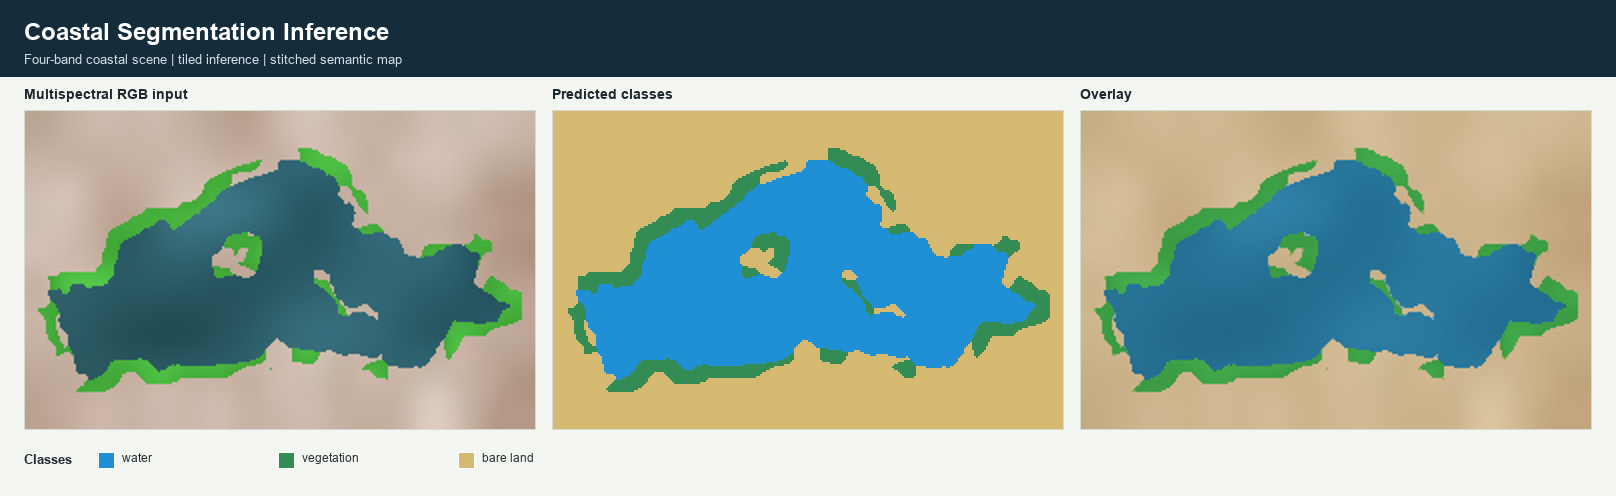
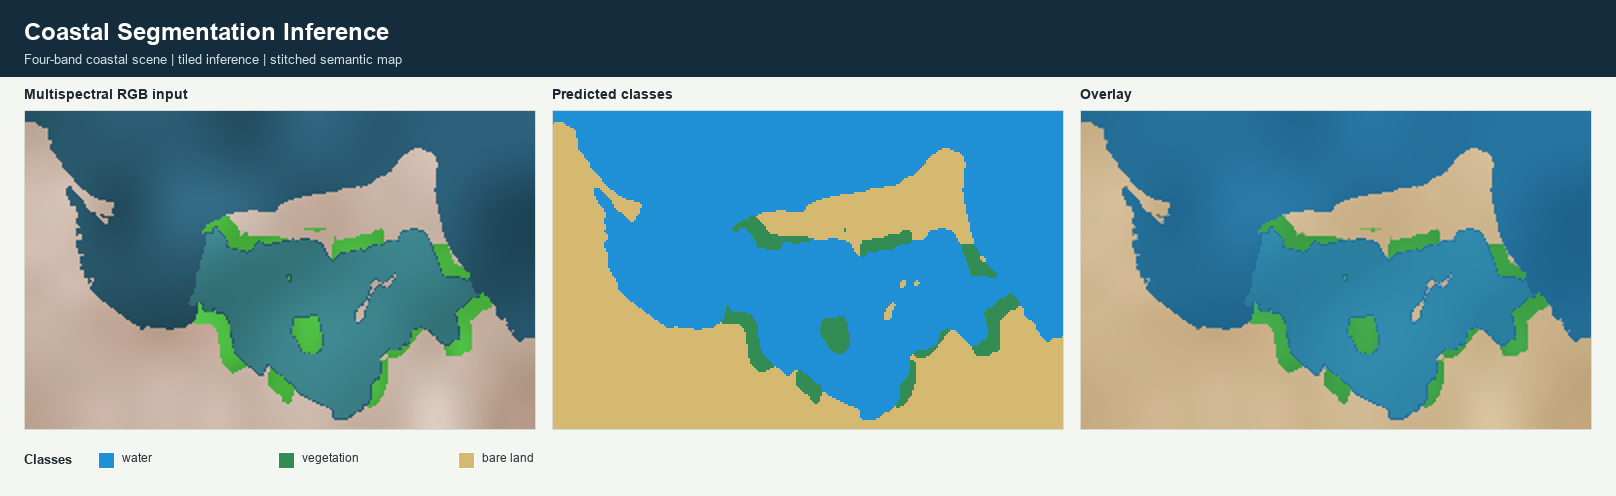
Connect segmentation scene to open sea

diff --git a/src/coastal_segformer_inference/synthetic.py b/src/coastal_segformer_inference/synthetic.py
@@ -25,11 +25,12 @@ def _smooth_noise(rng: np.random.Generator, width: int, height: int, scale: int)
     return (field - field.mean()) / (field.std() + 1e-6)
 
 
-def _lagoon_mask(width: int, height: int) -> np.ndarray:
-    geometry_path = Path(__file__).with_name("assets") / "lagoon_shape.png"
+def _coastal_zones(width: int, height: int) -> tuple[np.ndarray, np.ndarray]:
+    geometry_path = Path(__file__).with_name("assets") / "coastal_zones.png"
     with Image.open(geometry_path) as source:
         geometry = source.convert("L").resize((width, height), Image.Resampling.LANCZOS)
-    return np.asarray(geometry, dtype="uint8") >= 128
+    zones = np.asarray(geometry, dtype="uint8")
+    return zones > 24, zones >= 168
 
 
 def _dilate(mask: np.ndarray, radius: int) -> np.ndarray:
@@ -42,10 +43,11 @@ def make_synthetic_multispectral(width: int, height: int, seed: int) -> Syntheti
     yy, xx = np.mgrid[0:height, 0:width]
     broad_texture = _smooth_noise(rng, width, height, 30)
     regional_texture = _smooth_noise(rng, width, height, 15)
-    water = _lagoon_mask(width, height)
+    water, lagoon = _coastal_zones(width, height)
+    open_sea = water & ~lagoon
 
     marsh_radius = max(4, min(width, height) // 25)
-    shore_band = _dilate(water, marsh_radius) & ~water
+    shore_band = _dilate(lagoon, marsh_radius) & ~water
     marsh_continuity = regional_texture + 0.35 * np.sin(xx / 34.0) - 0.22 * np.cos(yy / 29.0)
     vegetation = shore_band & (marsh_continuity > -0.15)
     bare_land = ~(water | vegetation)
@@ -58,10 +60,14 @@ def make_synthetic_multispectral(width: int, height: int, seed: int) -> Syntheti
 
     water_texture = 0.018 * broad_texture + 0.007 * np.sin((xx + yy) / 18.0)
     water_gradient = 0.012 * (xx / max(width - 1, 1)) - 0.008 * (yy / max(height - 1, 1))
-    blue[water] = (0.120 + 0.7 * water_texture + water_gradient)[water]
-    green[water] = (0.105 + 0.6 * water_texture + 0.5 * water_gradient)[water]
-    red[water] = (0.046 + 0.35 * water_texture)[water]
-    nir[water] = (0.024 + 0.20 * water_texture)[water]
+    blue[open_sea] = (0.120 + 0.65 * water_texture + water_gradient)[open_sea]
+    green[open_sea] = (0.095 + 0.50 * water_texture + 0.35 * water_gradient)[open_sea]
+    red[open_sea] = (0.040 + 0.25 * water_texture)[open_sea]
+    nir[open_sea] = (0.018 + 0.12 * water_texture)[open_sea]
+    blue[lagoon] = (0.150 + 0.70 * water_texture + 0.5 * water_gradient)[lagoon]
+    green[lagoon] = (0.140 + 0.65 * water_texture + 0.4 * water_gradient)[lagoon]
+    red[lagoon] = (0.058 + 0.32 * water_texture)[lagoon]
+    nir[lagoon] = (0.026 + 0.16 * water_texture)[lagoon]
 
     vegetation_texture = 0.014 * regional_texture + 0.004 * np.cos(xx / 12.0)
     blue[vegetation] = (0.060 + 0.45 * vegetation_texture)[vegetation]

diff --git a/tests/test_synthetic.py b/tests/test_synthetic.py
@@ -1,0 +1,23 @@
+import unittest
+
+import numpy as np
+
+from coastal_segformer_inference.synthetic import _coastal_zones
+
+
+class TestSyntheticGeometry(unittest.TestCase):
+    def test_lagoon_connects_to_open_sea(self):
+        water, lagoon = _coastal_zones(256, 160)
+        open_sea = water & ~lagoon
+        neighboring_sea = (
+            np.roll(open_sea, 1, axis=0)
+            | np.roll(open_sea, -1, axis=0)
+            | np.roll(open_sea, 1, axis=1)
+            | np.roll(open_sea, -1, axis=1)
+        )
+        self.assertTrue(np.any(lagoon & neighboring_sea))
+        self.assertGreater(float(open_sea[0].mean()), 0.9)
+
+
+if __name__ == "__main__":
+    unittest.main()

diff --git a/src/coastal_segformer_inference/__init__.py b/src/coastal_segformer_inference/__init__.py
@@ -1,4 +1,4 @@
 """SegFormer-ready coastal segmentation inference harness."""
 
 __all__ = ["__version__"]
-__version__ = "0.1.2"
+__version__ = "0.1.3"

diff --git a/README.md b/README.md
@@ -2,10 +2,11 @@
 
 Geospatial AI inference harness for coastal semantic segmentation.
 
-The default run uses a procedural multispectral-like tile and a deterministic
-lightweight segmentation head to exercise preprocessing, tiling, stitching and
-visualization. The SegFormer adapter is isolated so that a licensed checkpoint
-can be mounted explicitly when available.
+The default run uses a procedural multispectral-like coastal scene with
+connected open-sea and lagoon zones. A deterministic lightweight segmentation
+head exercises preprocessing, tiling, stitching and visualization. The
+SegFormer adapter is isolated so that a licensed checkpoint can be mounted
+explicitly when available.
 
 ![Segmentation triplet](assets/segmentation_triplet.png)
 

diff --git a/CHANGELOG.md b/CHANGELOG.md
@@ -1,5 +1,12 @@
 # Changelog
 
+## 0.1.3 - 2026-06-19
+
+- Rebuilt the scene from connected internal- and external-water geometries.
+- Preserved the barrier island and lagoon-to-sea openings with west at the top.
+- Separated offshore and lagoon reflectance while retaining one water class.
+- Added a regression test for lagoon-to-sea connectivity.
+
 ## 0.1.2 - 2026-06-19
 
 - Replaced the analytic coastal scene with a generalized lagoon geometry.